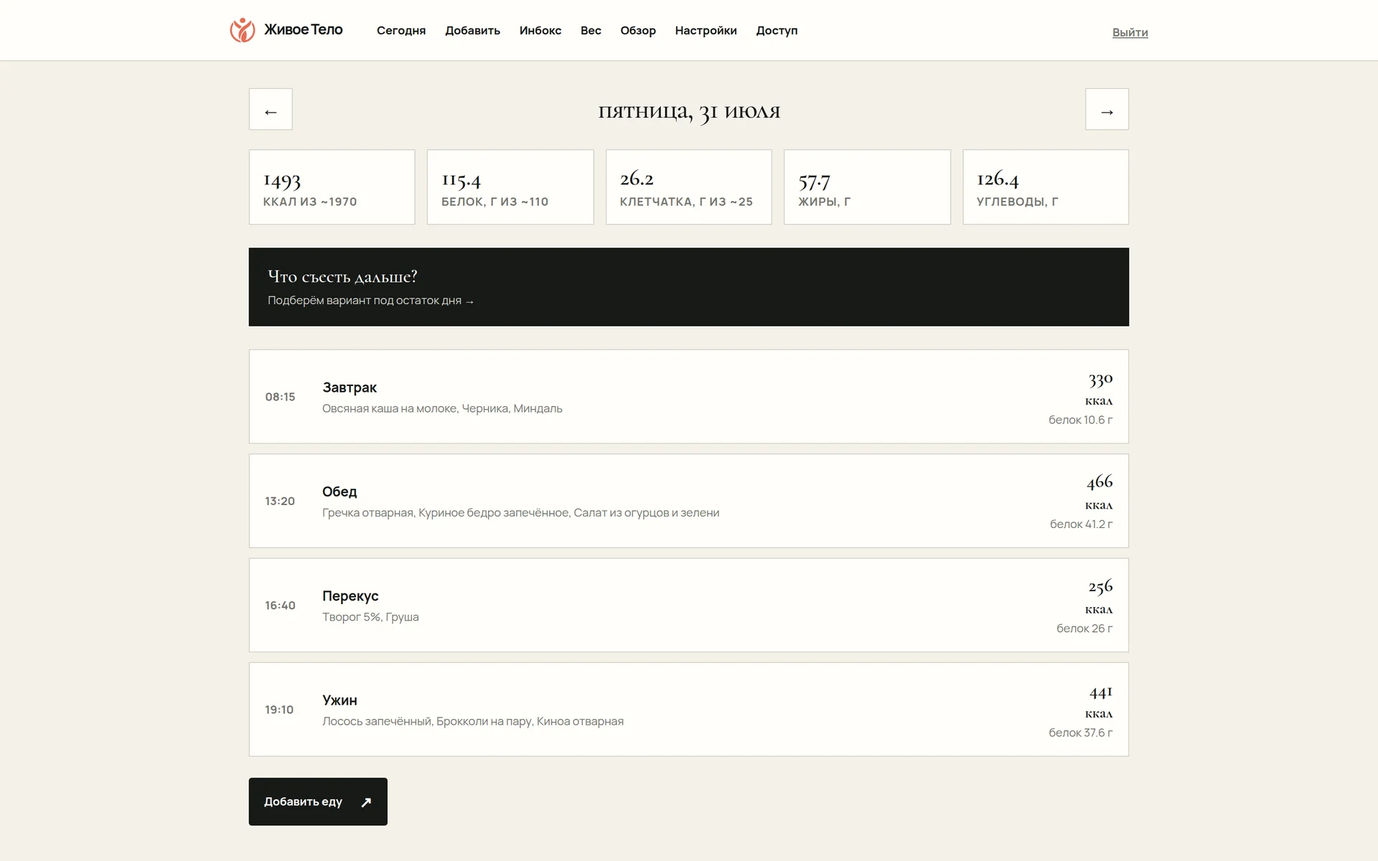
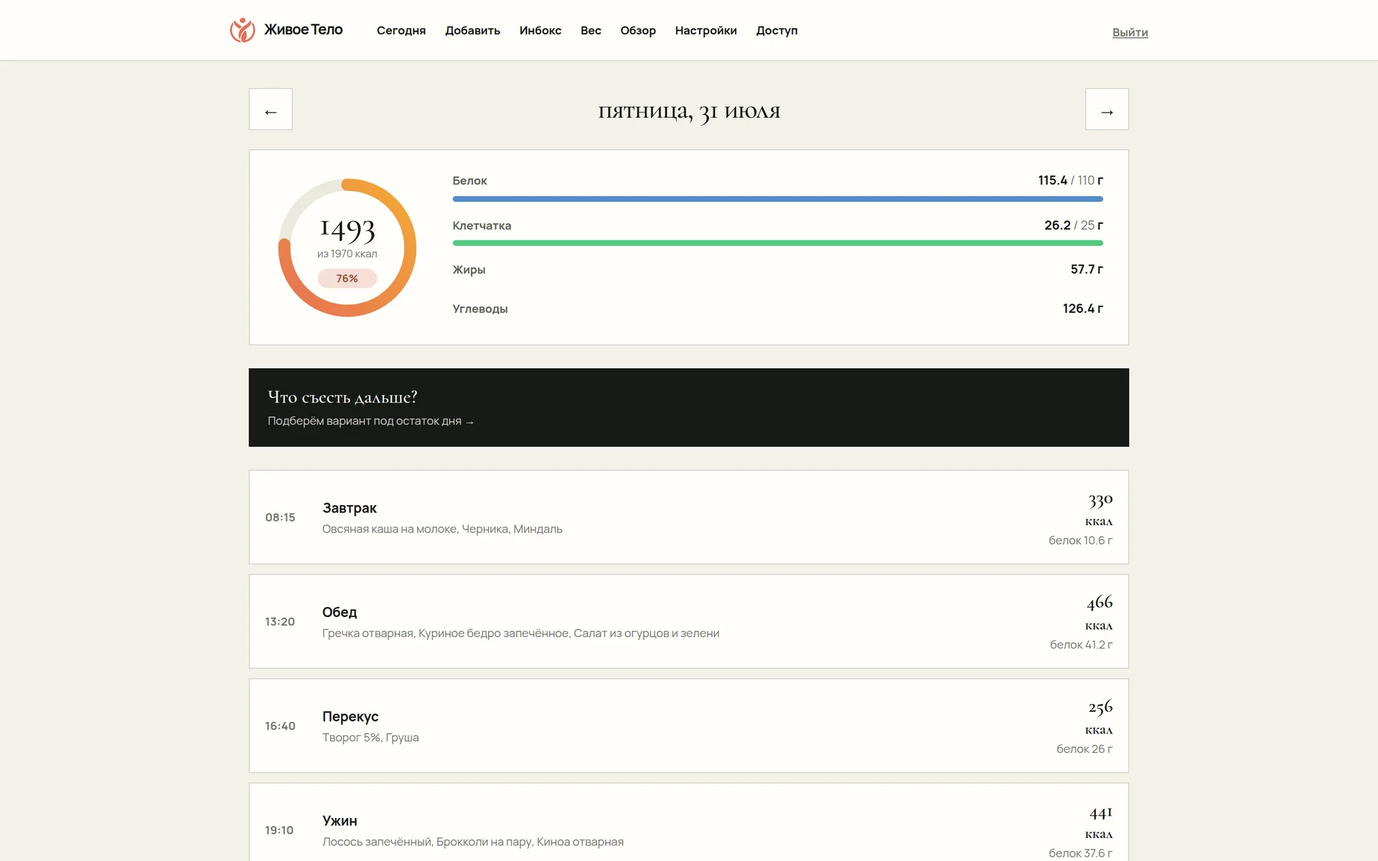
Кабинет: кольцо энергии и цветные полосы вместо пяти прямоугольников
В Mini App итоги дня выглядят кольцом и цветными полосами. В веб-кабинете те
же пять чисел стояли пятью одинаковыми прямоугольниками с рамкой — продукт в
браузере выглядел таблицей. Стало видно сразу, как только на главную вместо
нарисованного макета встал настоящий снимок.

app/app/day-visuals.tsx — кольцо и полосы. Компонент серверный: ни состояния,
ни обработчиков, в браузер не уезжает ничего.

Кольцо только для энергии: это единственное число, на которое смотрят первым,
и оно держит взгляд в одной точке. Остальные макросы полезно сравнивать между
собой — это работа для одинаковых полос.

Чего здесь нет намеренно: красного при превышении и слов «много», «мало»,
«отлично». Переполненная полоса просто останавливается на краю. У жиров и
углеводов цели не назначаем вовсе, поэтому дорожки под ними нет — пустая
полоса читалась бы как «ноль из чего-то», а на деле «не знаем, из чего».

Отдельно исправлено моё же столкновение имён: секция лендинга «Как проходит
обычный день» заняла класс .day, который уже был у страницы кабинета
(<main className="day">). Правило с отступом в 135px, написанное для лендинга,
раздвигало кабинет пустой полосой в полтысячи пикселей. Секция переименована
в .oneday.

Снимок кабинета на главной пересобран.

Claude-Session: https://claude.ai/code/session_01FfWCYDAfY1bLqGNy6tGekT

diff --git a/app/globals.css b/app/globals.css
@@ -1,9 +1,9 @@
 @import "tailwindcss";
-:root{--black:#171917;--paper:#f4f1ea;--white:#fffefa;--line:#d7d4ca;--muted:#75766f;--coral:#e56d55;--lime:#d9e49c;--serif:var(--font-display),Georgia,serif;--sans:var(--font-body),Arial,sans-serif}*{box-sizing:border-box}html{scroll-behavior:smooth}body{margin:0;background:var(--paper);color:var(--black);font-family:var(--sans)}button,a,input{font:inherit}button{cursor:pointer}a{color:inherit;text-decoration:none}.site-header{height:76px;padding:0 max(32px,calc((100% - 1280px)/2));display:flex;align-items:center;gap:42px;background:var(--white);border-bottom:1px solid var(--line);position:sticky;top:0;z-index:10}.logo{display:flex;align-items:center;gap:9px;white-space:nowrap;font-size:15px;font-weight:800;letter-spacing:-.04em}.logo span{display:block;width:27px;height:27px;flex:none}.logo span svg{display:block;width:100%;height:100%}.main-nav{display:flex;gap:27px}.main-nav button,.login{border:0;background:transparent;font-size:14px;font-weight:700}.main-nav small{font-size:12px;margin-left:6px}.header-actions{margin-left:auto;display:flex;align-items:center;gap:20px}.header-cta,.black-button,.coral-button,.white-button{border:0;border-radius:3px;padding:13px 16px;font-size:12px;font-weight:800}.header-cta,.black-button{background:var(--black);color:white}.header-cta b,.black-button b,.coral-button b,.white-button b{font-size:16px;margin-left:18px}.mega-menu{position:absolute;top:65px;left:max(32px,calc((100% - 1280px)/2));right:max(32px,calc((100% - 1280px)/2));display:grid;grid-template-columns:1fr 1fr 1.15fr;padding:27px;background:var(--white);border:1px solid var(--line);box-shadow:0 20px 35px #1719171f}.mega-menu p{color:var(--muted);font-size:11px;font-weight:800;letter-spacing:.12em}.mega-menu a{display:flex;justify-content:space-between;max-width:220px;padding:9px 0;font:500 20px var(--serif)}.mega-menu aside{padding:26px;background:var(--lime);font:500 28px/.95 var(--serif);letter-spacing:-.05em}.mega-menu em{font-style:italic;color:var(--coral)}.intro{background:var(--white) url(/hero.webp) no-repeat right center/cover;padding:105px max(32px,calc((100% - 1280px)/2)) 0}.intro-grid{display:grid;grid-template-columns:1.24fr .76fr;min-height:600px}.kicker{margin:0;text-transform:uppercase;font-size:11px;font-weight:800;letter-spacing:.13em}.kicker i{display:inline-block;width:6px;height:6px;margin-left:8px;border-radius:50%;background:var(--coral)}h1,h2,h3,p{margin-top:0}.intro h1{margin:28px 0 27px;font:500 clamp(62px,7vw,105px)/.82 var(--serif);letter-spacing:-.08em}.intro h1 em,h2 em{font-style:italic;color:var(--coral);font-weight:400}.intro-lead{max-width:370px;color:#61635c;font-size:14px;line-height:1.7}.intro-actions{display:flex;gap:26px;align-items:center;margin-top:32px}.intro-actions a{font-size:12px;font-weight:800}.intro-actions a span{font-size:16px;margin-left:7px}.intro-meta{display:flex;gap:13px;align-items:center;margin-top:99px;color:#777970;font-size:11px;font-weight:800;letter-spacing:.08em;text-transform:uppercase}.intro-meta i{width:58px;border-top:1px solid #aaa99f}.intro-statement{padding:40px 0 0 55px;color:var(--white);position:relative}.intro-statement:before{content:"";position:absolute;inset:0;background:linear-gradient(180deg,#171917f2 0%,#171917cc 45%,#17191700 72%);-webkit-mask-image:linear-gradient(90deg,#0000 0,#000 20%);mask-image:linear-gradient(90deg,#0000 0,#000 20%)}.intro-statement p,.intro-statement b,.intro-statement span{position:relative;z-index:1}.intro-statement p{margin:125px 0 8px;font:500 35px/.93 var(--serif);letter-spacing:-.06em}.intro-statement b{font:400 35px/.93 var(--serif);letter-spacing:-.06em;color:var(--lime)}.intro-statement span{position:absolute;bottom:28px;left:55px;color:#aaa;line-height:1.4;font-size:11px;text-transform:uppercase;letter-spacing:.12em;text-shadow:0 1px 8px #171917}.experience{padding:145px max(32px,calc((100% - 1280px)/2));background:var(--paper)}.section-top{display:grid;grid-template-columns:1fr 1fr;align-items:start;margin-bottom:66px}.section-top h2,.principles h2,.specialists h2,.footer-top h2{font:500 clamp(44px,5vw,72px)/.87 var(--serif);letter-spacing:-.075em;margin:0}.product-frame{margin:0;background:var(--white);border:1px solid var(--line);box-shadow:0 24px 70px #2b2d2012}.product-frame img,.pro-screen img{display:block;width:100%;height:auto}.pro-screen{align-self:center;margin:0;box-shadow:17px 17px 0 var(--coral)}.section-top div>p{max-width:295px;margin:22px 0 0;color:var(--muted);font-size:12px;line-height:1.65}.day{padding:135px max(32px,calc((100% - 1280px)/2));background:var(--paper)}.day-steps{display:grid;grid-template-columns:repeat(3,1fr);gap:36px}.day-steps figure{margin:0}.day-steps img{display:block;width:100%;height:auto}.day-steps h3{margin:24px 0 10px;font:500 27px var(--serif);letter-spacing:-.04em}.day-steps p{margin:0;color:#66675f;font-size:13px;line-height:1.65}.day-note{max-width:520px;margin:44px 0 0;color:var(--muted);font-size:12px;line-height:1.65}.range{display:grid;grid-template-columns:1.05fr .95fr;gap:80px;align-items:center;padding:135px max(32px,calc((100% - 1280px)/2));background:var(--white)}.range h2{margin:26px 0 30px;font:500 clamp(36px,4vw,54px)/.92 var(--serif);letter-spacing:-.06em}.range p{max-width:520px;margin:0 0 17px;color:#5c5e57;font-size:14px;line-height:1.75}.range .black-button{display:inline-block;margin-top:16px}.range img{display:block;width:100%;height:auto}.limits{padding:135px max(32px,calc((100% - 1280px)/2));background:var(--black);color:var(--white)}.limits h2{margin:26px 0 0;font:500 clamp(40px,4.6vw,64px)/.88 var(--serif);letter-spacing:-.07em}.limits-grid{display:grid;grid-template-columns:1fr 1fr;gap:80px;align-items:start;margin-top:56px}.limits-list{display:grid;gap:30px;align-content:start}.limits-list h3{margin:0 0 8px;font:500 24px var(--serif);letter-spacing:-.035em}.limits-list p{margin:0;max-width:430px;color:#bcbdb5;font-size:13px;line-height:1.65}.limits-more{font-size:12px;font-weight:800;text-decoration:underline;text-underline-offset:3px}.limits-more:hover{color:var(--coral)}.limits img{display:block;width:100%;height:auto}.tools{padding:135px max(32px,calc((100% - 1280px)/2));background:var(--paper)}.tools-banner{display:block;width:100%;height:auto;margin-bottom:52px}.tools-grid{display:grid;grid-template-columns:repeat(3,1fr);gap:1px;background:var(--line);border:1px solid var(--line)}.tools-grid a{display:flex;flex-direction:column;justify-content:space-between;gap:44px;min-height:168px;padding:24px;background:var(--white)}.tools-grid span{font-size:11px;font-weight:800;letter-spacing:.1em;text-transform:uppercase;color:var(--muted)}.tools-grid b{font:500 25px/1.05 var(--serif);letter-spacing:-.04em}.tools-grid a:hover b{color:var(--coral)}.tools-all{margin:28px 0 0;font-size:12px;font-weight:800}.tools-all a:hover{color:var(--coral)}.price{display:grid;grid-template-columns:.85fr 1.15fr;gap:80px;padding:135px max(32px,calc((100% - 1280px)/2));background:var(--white)}.price h2{margin:26px 0 0;font:500 clamp(40px,4.6vw,64px)/.88 var(--serif);letter-spacing:-.07em}.price p{max-width:560px;margin:0 0 18px;color:#5c5e57;font-size:14px;line-height:1.75}.price strong{font-weight:800;color:var(--black)}.faq{padding:135px max(32px,calc((100% - 1280px)/2));background:var(--paper)}.faq-list{border-top:1px solid var(--line)}.faq-list details{border-bottom:1px solid var(--line)}.faq-list summary{display:flex;justify-content:space-between;align-items:baseline;gap:24px;padding:25px 0;cursor:pointer;list-style:none;font:500 25px var(--serif);letter-spacing:-.035em}.faq-list summary::-webkit-details-marker{display:none}.faq-list summary::after{content:'+';flex:none;font:400 24px var(--sans);color:var(--coral)}.faq-list details[open] summary::after{content:'–'}.faq-list summary:hover{color:var(--coral)}.faq-list p{max-width:760px;margin:0 0 27px;color:#5c5e57;font-size:14px;line-height:1.7}.principles{display:grid;grid-template-columns:.85fr 1.15fr;padding:135px max(32px,calc((100% - 1280px)/2));background:#deded4}.principles-list{border-top:1px solid #aaa9a0}.principles-list article{display:grid;grid-template-columns:44px 1fr 20px;gap:15px;padding:27px 0;border-bottom:1px solid #aaa9a0}.principles-list span{font-size:11px;font-weight:800}.principles-list h3{margin:0;font:500 28px var(--serif);letter-spacing:-.045em}.principles-list p{max-width:385px;margin:9px 0 0;color:#66675f;font-size:12px;line-height:1.6}.principles-list b{font-size:20px}.specialists{display:grid;grid-template-columns:1fr 1fr;gap:80px;padding:135px max(32px,calc((100% - 1280px)/2));background:var(--black);color:var(--white)}.specialists>div>p:not(.kicker){max-width:365px;margin:25px 0 33px;color:#bcbdb5;font-size:12px;line-height:1.65}.white-button{background:var(--white);color:var(--black)}.journal{padding:130px max(32px,calc((100% - 1280px)/2));background:var(--white)}.articles{display:grid;grid-template-columns:repeat(3,1fr);border-top:1px solid var(--line)}.articles article{min-height:245px;padding:22px;border-right:1px solid var(--line)}.articles article:first-child{padding-left:0}.articles article:last-child{border:0}.articles span{font-size:11px;font-weight:800;letter-spacing:.1em}.articles h3{margin:58px 0 28px;font:500 29px/.95 var(--serif);letter-spacing:-.05em}.articles a{font-size:11px;font-weight:800}.articles a:hover{color:var(--coral)}footer{padding:76px max(32px,calc((100% - 1280px)/2)) 25px;background:var(--paper)}.footer-top{display:grid;grid-template-columns:1fr 1fr auto;align-items:start}.footer-top h2{font-size:57px}.coral-button{margin-top:18px;background:var(--coral);color:#201b18}.footer-bottom{display:flex;gap:26px;margin-top:104px;border-top:1px solid var(--line);padding-top:17px;color:#74766e;font-size:11px;font-weight:700}.footer-bottom a:first-of-type{margin-left:auto}.footer-links{display:grid;grid-template-columns:repeat(4,1fr);gap:26px;margin-top:80px;padding-top:28px;border-top:1px solid var(--line)}
+:root{--black:#171917;--paper:#f4f1ea;--white:#fffefa;--line:#d7d4ca;--muted:#75766f;--coral:#e56d55;--lime:#d9e49c;--serif:var(--font-display),Georgia,serif;--sans:var(--font-body),Arial,sans-serif}*{box-sizing:border-box}html{scroll-behavior:smooth}body{margin:0;background:var(--paper);color:var(--black);font-family:var(--sans)}button,a,input{font:inherit}button{cursor:pointer}a{color:inherit;text-decoration:none}.site-header{height:76px;padding:0 max(32px,calc((100% - 1280px)/2));display:flex;align-items:center;gap:42px;background:var(--white);border-bottom:1px solid var(--line);position:sticky;top:0;z-index:10}.logo{display:flex;align-items:center;gap:9px;white-space:nowrap;font-size:15px;font-weight:800;letter-spacing:-.04em}.logo span{display:block;width:27px;height:27px;flex:none}.logo span svg{display:block;width:100%;height:100%}.main-nav{display:flex;gap:27px}.main-nav button,.login{border:0;background:transparent;font-size:14px;font-weight:700}.main-nav small{font-size:12px;margin-left:6px}.header-actions{margin-left:auto;display:flex;align-items:center;gap:20px}.header-cta,.black-button,.coral-button,.white-button{border:0;border-radius:3px;padding:13px 16px;font-size:12px;font-weight:800}.header-cta,.black-button{background:var(--black);color:white}.header-cta b,.black-button b,.coral-button b,.white-button b{font-size:16px;margin-left:18px}.mega-menu{position:absolute;top:65px;left:max(32px,calc((100% - 1280px)/2));right:max(32px,calc((100% - 1280px)/2));display:grid;grid-template-columns:1fr 1fr 1.15fr;padding:27px;background:var(--white);border:1px solid var(--line);box-shadow:0 20px 35px #1719171f}.mega-menu p{color:var(--muted);font-size:11px;font-weight:800;letter-spacing:.12em}.mega-menu a{display:flex;justify-content:space-between;max-width:220px;padding:9px 0;font:500 20px var(--serif)}.mega-menu aside{padding:26px;background:var(--lime);font:500 28px/.95 var(--serif);letter-spacing:-.05em}.mega-menu em{font-style:italic;color:var(--coral)}.intro{background:var(--white) url(/hero.webp) no-repeat right center/cover;padding:105px max(32px,calc((100% - 1280px)/2)) 0}.intro-grid{display:grid;grid-template-columns:1.24fr .76fr;min-height:600px}.kicker{margin:0;text-transform:uppercase;font-size:11px;font-weight:800;letter-spacing:.13em}.kicker i{display:inline-block;width:6px;height:6px;margin-left:8px;border-radius:50%;background:var(--coral)}h1,h2,h3,p{margin-top:0}.intro h1{margin:28px 0 27px;font:500 clamp(62px,7vw,105px)/.82 var(--serif);letter-spacing:-.08em}.intro h1 em,h2 em{font-style:italic;color:var(--coral);font-weight:400}.intro-lead{max-width:370px;color:#61635c;font-size:14px;line-height:1.7}.intro-actions{display:flex;gap:26px;align-items:center;margin-top:32px}.intro-actions a{font-size:12px;font-weight:800}.intro-actions a span{font-size:16px;margin-left:7px}.intro-meta{display:flex;gap:13px;align-items:center;margin-top:99px;color:#777970;font-size:11px;font-weight:800;letter-spacing:.08em;text-transform:uppercase}.intro-meta i{width:58px;border-top:1px solid #aaa99f}.intro-statement{padding:40px 0 0 55px;color:var(--white);position:relative}.intro-statement:before{content:"";position:absolute;inset:0;background:linear-gradient(180deg,#171917f2 0%,#171917cc 45%,#17191700 72%);-webkit-mask-image:linear-gradient(90deg,#0000 0,#000 20%);mask-image:linear-gradient(90deg,#0000 0,#000 20%)}.intro-statement p,.intro-statement b,.intro-statement span{position:relative;z-index:1}.intro-statement p{margin:125px 0 8px;font:500 35px/.93 var(--serif);letter-spacing:-.06em}.intro-statement b{font:400 35px/.93 var(--serif);letter-spacing:-.06em;color:var(--lime)}.intro-statement span{position:absolute;bottom:28px;left:55px;color:#aaa;line-height:1.4;font-size:11px;text-transform:uppercase;letter-spacing:.12em;text-shadow:0 1px 8px #171917}.experience{padding:145px max(32px,calc((100% - 1280px)/2));background:var(--paper)}.section-top{display:grid;grid-template-columns:1fr 1fr;align-items:start;margin-bottom:66px}.section-top h2,.principles h2,.specialists h2,.footer-top h2{font:500 clamp(44px,5vw,72px)/.87 var(--serif);letter-spacing:-.075em;margin:0}.product-frame{margin:0;background:var(--white);border:1px solid var(--line);box-shadow:0 24px 70px #2b2d2012}.product-frame img,.pro-screen img{display:block;width:100%;height:auto}.pro-screen{align-self:center;margin:0;box-shadow:17px 17px 0 var(--coral)}.section-top div>p{max-width:295px;margin:22px 0 0;color:var(--muted);font-size:12px;line-height:1.65}.oneday{padding:135px max(32px,calc((100% - 1280px)/2));background:var(--paper)}.oneday-steps{display:grid;grid-template-columns:repeat(3,1fr);gap:36px}.oneday-steps figure{margin:0}.oneday-steps img{display:block;width:100%;height:auto}.oneday-steps h3{margin:24px 0 10px;font:500 27px var(--serif);letter-spacing:-.04em}.oneday-steps p{margin:0;color:#66675f;font-size:13px;line-height:1.65}.oneday-note{max-width:520px;margin:44px 0 0;color:var(--muted);font-size:12px;line-height:1.65}.range{display:grid;grid-template-columns:1.05fr .95fr;gap:80px;align-items:center;padding:135px max(32px,calc((100% - 1280px)/2));background:var(--white)}.range h2{margin:26px 0 30px;font:500 clamp(36px,4vw,54px)/.92 var(--serif);letter-spacing:-.06em}.range p{max-width:520px;margin:0 0 17px;color:#5c5e57;font-size:14px;line-height:1.75}.range .black-button{display:inline-block;margin-top:16px}.range img{display:block;width:100%;height:auto}.limits{padding:135px max(32px,calc((100% - 1280px)/2));background:var(--black);color:var(--white)}.limits h2{margin:26px 0 0;font:500 clamp(40px,4.6vw,64px)/.88 var(--serif);letter-spacing:-.07em}.limits-grid{display:grid;grid-template-columns:1fr 1fr;gap:80px;align-items:start;margin-top:56px}.limits-list{display:grid;gap:30px;align-content:start}.limits-list h3{margin:0 0 8px;font:500 24px var(--serif);letter-spacing:-.035em}.limits-list p{margin:0;max-width:430px;color:#bcbdb5;font-size:13px;line-height:1.65}.limits-more{font-size:12px;font-weight:800;text-decoration:underline;text-underline-offset:3px}.limits-more:hover{color:var(--coral)}.limits img{display:block;width:100%;height:auto}.tools{padding:135px max(32px,calc((100% - 1280px)/2));background:var(--paper)}.tools-banner{display:block;width:100%;height:auto;margin-bottom:52px}.tools-grid{display:grid;grid-template-columns:repeat(3,1fr);gap:1px;background:var(--line);border:1px solid var(--line)}.tools-grid a{display:flex;flex-direction:column;justify-content:space-between;gap:44px;min-height:168px;padding:24px;background:var(--white)}.tools-grid span{font-size:11px;font-weight:800;letter-spacing:.1em;text-transform:uppercase;color:var(--muted)}.tools-grid b{font:500 25px/1.05 var(--serif);letter-spacing:-.04em}.tools-grid a:hover b{color:var(--coral)}.tools-all{margin:28px 0 0;font-size:12px;font-weight:800}.tools-all a:hover{color:var(--coral)}.price{display:grid;grid-template-columns:.85fr 1.15fr;gap:80px;padding:135px max(32px,calc((100% - 1280px)/2));background:var(--white)}.price h2{margin:26px 0 0;font:500 clamp(40px,4.6vw,64px)/.88 var(--serif);letter-spacing:-.07em}.price p{max-width:560px;margin:0 0 18px;color:#5c5e57;font-size:14px;line-height:1.75}.price strong{font-weight:800;color:var(--black)}.faq{padding:135px max(32px,calc((100% - 1280px)/2));background:var(--paper)}.faq-list{border-top:1px solid var(--line)}.faq-list details{border-bottom:1px solid var(--line)}.faq-list summary{display:flex;justify-content:space-between;align-items:baseline;gap:24px;padding:25px 0;cursor:pointer;list-style:none;font:500 25px var(--serif);letter-spacing:-.035em}.faq-list summary::-webkit-details-marker{display:none}.faq-list summary::after{content:'+';flex:none;font:400 24px var(--sans);color:var(--coral)}.faq-list details[open] summary::after{content:'–'}.faq-list summary:hover{color:var(--coral)}.faq-list p{max-width:760px;margin:0 0 27px;color:#5c5e57;font-size:14px;line-height:1.7}.principles{display:grid;grid-template-columns:.85fr 1.15fr;padding:135px max(32px,calc((100% - 1280px)/2));background:#deded4}.principles-list{border-top:1px solid #aaa9a0}.principles-list article{display:grid;grid-template-columns:44px 1fr 20px;gap:15px;padding:27px 0;border-bottom:1px solid #aaa9a0}.principles-list span{font-size:11px;font-weight:800}.principles-list h3{margin:0;font:500 28px var(--serif);letter-spacing:-.045em}.principles-list p{max-width:385px;margin:9px 0 0;color:#66675f;font-size:12px;line-height:1.6}.principles-list b{font-size:20px}.specialists{display:grid;grid-template-columns:1fr 1fr;gap:80px;padding:135px max(32px,calc((100% - 1280px)/2));background:var(--black);color:var(--white)}.specialists>div>p:not(.kicker){max-width:365px;margin:25px 0 33px;color:#bcbdb5;font-size:12px;line-height:1.65}.white-button{background:var(--white);color:var(--black)}.journal{padding:130px max(32px,calc((100% - 1280px)/2));background:var(--white)}.articles{display:grid;grid-template-columns:repeat(3,1fr);border-top:1px solid var(--line)}.articles article{min-height:245px;padding:22px;border-right:1px solid var(--line)}.articles article:first-child{padding-left:0}.articles article:last-child{border:0}.articles span{font-size:11px;font-weight:800;letter-spacing:.1em}.articles h3{margin:58px 0 28px;font:500 29px/.95 var(--serif);letter-spacing:-.05em}.articles a{font-size:11px;font-weight:800}.articles a:hover{color:var(--coral)}footer{padding:76px max(32px,calc((100% - 1280px)/2)) 25px;background:var(--paper)}.footer-top{display:grid;grid-template-columns:1fr 1fr auto;align-items:start}.footer-top h2{font-size:57px}.coral-button{margin-top:18px;background:var(--coral);color:#201b18}.footer-bottom{display:flex;gap:26px;margin-top:104px;border-top:1px solid var(--line);padding-top:17px;color:#74766e;font-size:11px;font-weight:700}.footer-bottom a:first-of-type{margin-left:auto}.footer-links{display:grid;grid-template-columns:repeat(4,1fr);gap:26px;margin-top:80px;padding-top:28px;border-top:1px solid var(--line)}
 /* Без верхнего блока (везде, кроме главной) подвал начинается со ссылок —
    отступ под несуществующий заголовок оставил бы пустую полосу. */
 footer>.footer-links:first-child{margin-top:0;padding-top:0;border-top:0}.footer-links div{display:flex;flex-direction:column;gap:12px}.footer-links p{margin:0;color:var(--muted);font-size:12px;font-weight:800;letter-spacing:.06em;text-transform:uppercase}.footer-links a{font-size:14px}.footer-links a:hover{color:var(--coral)}
-@media(max-width:850px){.site-header{padding:0 20px;height:64px;gap:0}.main-nav{display:none}.login{display:none}.header-actions{gap:0}.intro,.experience,.principles,.specialists,.journal,footer{padding-left:20px;padding-right:20px}.intro{padding-top:65px}.intro-grid,.section-top,.principles,.specialists{grid-template-columns:1fr}.intro{background-image:none}.intro-statement{min-height:250px;padding:40px 28px 32px;margin:50px -20px 0;background:var(--black)}.intro-statement:before{background:none;-webkit-mask-image:none;mask-image:none;inset:auto auto auto 0;border-style:solid;border-width:60px 60px 0 0;border-color:var(--white) transparent transparent}.intro-statement span{position:static;display:block;margin-top:20px;text-shadow:none}.intro-statement p{margin-top:95px}.intro-statement span{left:28px}.intro-meta{margin-top:52px}.section-top{gap:22px;margin-bottom:45px}.product-frame{margin:0 -20px}.day,.range,.limits,.tools,.price,.faq{padding-left:20px;padding-right:20px}.day,.range,.limits,.tools,.price,.faq{padding-top:80px;padding-bottom:80px}.day-steps{grid-template-columns:1fr;gap:38px}.range,.limits-grid,.price{grid-template-columns:1fr;gap:36px}.tools-grid{grid-template-columns:1fr}.tools-grid a{min-height:0;gap:18px}.faq-list summary{font-size:20px;gap:16px}.principles{gap:40px}.specialists{gap:55px}.articles{grid-template-columns:1fr}.articles article,.articles article:first-child{min-height:auto;padding:25px 0;border-right:0;border-bottom:1px solid var(--line)}.articles h3{margin:28px 0}.footer-top{grid-template-columns:1fr;gap:35px}.footer-bottom{margin-top:65px;flex-wrap:wrap}.footer-bottom a:first-of-type{margin-left:0}.footer-links{grid-template-columns:1fr 1fr;gap:30px 20px;margin-top:50px;padding-top:20px}.mega-menu{left:20px;right:20px;grid-template-columns:1fr;padding:20px}.mega-menu aside{display:none}}
+@media(max-width:850px){.site-header{padding:0 20px;height:64px;gap:0}.main-nav{display:none}.login{display:none}.header-actions{gap:0}.intro,.experience,.principles,.specialists,.journal,footer{padding-left:20px;padding-right:20px}.intro{padding-top:65px}.intro-grid,.section-top,.principles,.specialists{grid-template-columns:1fr}.intro{background-image:none}.intro-statement{min-height:250px;padding:40px 28px 32px;margin:50px -20px 0;background:var(--black)}.intro-statement:before{background:none;-webkit-mask-image:none;mask-image:none;inset:auto auto auto 0;border-style:solid;border-width:60px 60px 0 0;border-color:var(--white) transparent transparent}.intro-statement span{position:static;display:block;margin-top:20px;text-shadow:none}.intro-statement p{margin-top:95px}.intro-statement span{left:28px}.intro-meta{margin-top:52px}.section-top{gap:22px;margin-bottom:45px}.product-frame{margin:0 -20px}.oneday,.range,.limits,.tools,.price,.faq{padding-left:20px;padding-right:20px}.oneday,.range,.limits,.tools,.price,.faq{padding-top:80px;padding-bottom:80px}.oneday-steps{grid-template-columns:1fr;gap:38px}.range,.limits-grid,.price{grid-template-columns:1fr;gap:36px}.tools-grid{grid-template-columns:1fr}.tools-grid a{min-height:0;gap:18px}.faq-list summary{font-size:20px;gap:16px}.principles{gap:40px}.specialists{gap:55px}.articles{grid-template-columns:1fr}.articles article,.articles article:first-child{min-height:auto;padding:25px 0;border-right:0;border-bottom:1px solid var(--line)}.articles h3{margin:28px 0}.footer-top{grid-template-columns:1fr;gap:35px}.footer-bottom{margin-top:65px;flex-wrap:wrap}.footer-bottom a:first-of-type{margin-left:0}.footer-links{grid-template-columns:1fr 1fr;gap:30px 20px;margin-top:50px;padding-top:20px}.mega-menu{left:20px;right:20px;grid-template-columns:1fr;padding:20px}.mega-menu aside{display:none}}
 
 .form-error{display:block;margin:-2px 0 10px;color:#b95353;font-size:12px;line-height:1.5}
 
@@ -41,7 +41,7 @@ footer>.footer-links:first-child{margin-top:0;padding-top:0;border-top:0}.footer
 .day-totals span,.draft-summary span{font-size:12px;font-weight:700;color:var(--muted);letter-spacing:.06em;text-transform:uppercase}
 .day-empty{background:var(--white);border:1px solid var(--line);padding:32px;display:flex;flex-direction:column;gap:18px;align-items:flex-start}
 .day-empty p{margin:0;color:var(--muted);line-height:1.6;max-width:420px}
-.day-meals{display:flex;flex-direction:column;gap:10px}
+.day-summary{display:grid;grid-template-columns:auto 1fr;gap:34px;align-items:center;margin-bottom:24px;padding:22px 26px;background:var(--white);border:1px solid var(--line)}.day-ring{position:relative;width:152px;height:152px}.day-ring svg{display:block;width:100%;height:100%;transform:rotate(-90deg)}.day-ring-track{fill:none;stroke:#ece9df;stroke-width:10}.day-ring-value{fill:none;stroke:url(#day-ring-gradient);stroke-width:10;stroke-linecap:round}.day-ring-center{position:absolute;inset:0;display:grid;place-content:center;text-align:center}.day-ring-center strong{display:block;font:500 36px/1 var(--serif)}.day-ring-center span{display:block;margin-top:5px;font-size:11px;color:var(--muted)}.day-ring-center em{display:inline-block;margin-top:7px;padding:2px 9px;border-radius:10px;background:#f7ded7;color:#9a4f3c;font-style:normal;font-size:11px;font-weight:800}.day-bars{display:grid;gap:15px;min-width:0}.day-bar-head{display:flex;justify-content:space-between;align-items:baseline;gap:12px;margin-bottom:6px}.day-bar-head span{font-size:12px;font-weight:700;color:#5c5e57}.day-bar-head b{font-size:13px;font-weight:800;white-space:nowrap}.day-bar-head i{font-style:normal;font-weight:400;color:var(--muted)}.day-bar-track{height:6px;border-radius:3px;background:hsl(var(--macro-hue) 42% 92%);overflow:hidden}.day-bar-fill{height:100%;border-radius:3px;background:hsl(var(--macro-hue) 52% 56%)}@media(max-width:720px){.day-summary{grid-template-columns:1fr;justify-items:center;gap:22px;padding:20px}.day-bars{width:100%}}.day-meals{display:flex;flex-direction:column;gap:10px}
 .day-meal{display:flex;align-items:center;gap:16px;background:var(--white);border:1px solid var(--line);padding:16px}
 .day-meal time{font-size:12px;font-weight:700;color:var(--muted);width:44px}
 .day-meal>div{flex:1;display:flex;flex-direction:column;gap:3px;min-width:0}

diff --git a/app/app/day-visuals.tsx b/app/app/day-visuals.tsx
@@ -1,0 +1,86 @@
+/**
+ * Итоги дня в кабинете: кольцо энергии и полосы макросов.
+ *
+ * ## Зачем понадобилось
+ *
+ * В Mini App итоги дня выглядят кольцом и цветными полосами, а в веб-кабинете
+ * ровно те же числа стояли пятью одинаковыми прямоугольниками с рамкой. Это
+ * заметили сразу, как только на главную вместо нарисованного макета встал
+ * настоящий снимок: продукт в вебе выглядел таблицей.
+ *
+ * Компонент серверный — ни состояния, ни обработчиков здесь нет, только
+ * арифметика и разметка. В браузер не уезжает ничего.
+ *
+ * ## Почему кольцо, а не полоса, для энергии
+ *
+ * Энергия — единственное число, на которое человек смотрит первым. Кольцо
+ * держит взгляд в одной точке и читается с расстояния; полоса в ряду с
+ * четырьмя такими же теряется. Остальные макросы, наоборот, полезно
+ * сравнивать между собой — а это как раз работа для одинаковых полос.
+ *
+ * ## Чего здесь нет
+ *
+ * Красного цвета при превышении и слов «много», «мало», «отлично». Сервис
+ * показывает, что было; выводы делает человек. Поэтому переполненная полоса
+ * просто останавливается на краю, а не краснеет.
+ */
+
+/** Оттенки берём из тех же тонов, что в Mini App, — набор должен совпадать. */
+const MACRO_HUE: Record<string, number> = {
+  protein: 212,
+  fat: 38,
+  carbs: 276,
+  fiber: 142,
+};
+
+export function EnergyRing({ value, target }: { value: number; target: number | null }) {
+  const radius = 52;
+  const circumference = 2 * Math.PI * radius;
+  // Без цели кольцо остаётся пустым: рисовать долю от неизвестного нечестно.
+  const share = target && target > 0 ? Math.min(1, value / target) : 0;
+
+  return <div className="day-ring">
+    <svg viewBox="0 0 120 120" role="img" aria-label={target ? `Съедено ${value} из ${target} ккал` : `Съедено ${value} ккал`}>
+      <defs>
+        {/* Градиент вдоль дуги в userSpace: от bounding box самой дуги он на
+            малом заполнении сжался бы в одно пятно. */}
+        <linearGradient id="day-ring-gradient" gradientUnits="userSpaceOnUse" x1="0" y1="0" x2="120" y2="120">
+          <stop offset="0%" stopColor="var(--coral)" />
+          <stop offset="100%" stopColor="hsl(38 90% 58%)" />
+        </linearGradient>
+      </defs>
+      <circle className="day-ring-track" cx="60" cy="60" r={radius} />
+      <circle
+        className="day-ring-value"
+        cx="60" cy="60" r={radius}
+        strokeDasharray={circumference}
+        strokeDashoffset={circumference * (1 - share)}
+      />
+    </svg>
+    <div className="day-ring-center">
+      <strong>{value}</strong>
+      <span>{target ? `из ${target} ккал` : "ккал"}</span>
+      {target ? <em>{Math.round(share * 100)}%</em> : null}
+    </div>
+  </div>;
+}
+
+export function MacroBar({ label, value, target, unit, macro }: {
+  label: string;
+  value: number;
+  target: number | null;
+  unit: string;
+  /** Ключ из MACRO_HUE — он же задаёт цвет полосы. */
+  macro: keyof typeof MACRO_HUE;
+}) {
+  const pct = target && target > 0 ? Math.min(100, Math.round((value / target) * 100)) : 0;
+  return <div className="day-bar" style={{ "--macro-hue": MACRO_HUE[macro] } as React.CSSProperties}>
+    <div className="day-bar-head">
+      <span>{label}</span>
+      <b>{value}{target ? <i> / {target}</i> : null} {unit}</b>
+    </div>
+    {/* Без цели дорожку не рисуем вовсе: пустая полоса выглядит как ноль
+        из чего-то, а на деле «не знаем, из чего». */}
+    {target ? <div className="day-bar-track"><div className="day-bar-fill" style={{ width: `${pct}%` }} /></div> : null}
+  </div>;
+}

diff --git a/app/app/page.tsx b/app/app/page.tsx
@@ -10,6 +10,7 @@ import type { PaceKey } from "@/lib/pace";
 import { computeTargets, type Activity, type Goal, type SexForFormula, type Targets } from "@/lib/targets";
 import { getLatestWeightKg } from "@/lib/weight";
 import { AppInvite } from "../app-invite";
+import { EnergyRing, MacroBar } from "./day-visuals";
 import { GoalReporter } from "./goal-reporter";
 
 export default async function TodayPage({ searchParams }: { searchParams: Promise<{ date?: string; saved?: string }> }) {
@@ -65,15 +66,20 @@ export default async function TodayPage({ searchParams }: { searchParams: Promis
       <Link className="black-button" href="/app/onboarding">Настроить план <b>↗</b></Link>
     </section>}
 
-    <section className="day-totals">
-      {user.showCalories && <div>
-        <strong>{dayTotals.kcal}</strong>
-        <span>ккал{targets ? ` из ~${targets.kcalTarget}` : ""}</span>
-      </div>}
-      <div><strong>{dayTotals.protein}</strong><span>белок, г{targets ? ` из ~${targets.proteinTarget}` : ""}</span></div>
-      <div><strong>{dayTotals.fiber}</strong><span>клетчатка, г{targets ? ` из ~${targets.fiberTarget}` : ""}</span></div>
-      <div><strong>{dayTotals.fat}</strong><span>жиры, г</span></div>
-      <div><strong>{dayTotals.carbs}</strong><span>углеводы, г</span></div>
+    {/* Те же пять чисел, что и раньше, — но кольцом и полосами, а не пятью
+        одинаковыми прямоугольниками с рамкой. В Mini App итоги дня так
+        выглядели с самого начала; веб-кабинет отставал, и это стало видно,
+        как только на главную встал настоящий снимок вместо макета. */}
+    <section className="day-summary">
+      {user.showCalories && <EnergyRing value={dayTotals.kcal} target={targets?.kcalTarget ?? null} />}
+      <div className="day-bars">
+        <MacroBar label="Белок" value={dayTotals.protein} target={targets?.proteinTarget ?? null} unit="г" macro="protein" />
+        <MacroBar label="Клетчатка" value={dayTotals.fiber} target={targets?.fiberTarget ?? null} unit="г" macro="fiber" />
+        {/* Жирам и углеводам цели не назначаем — полоса без дорожки честно
+            показывает съеденное, не выдумывая «из скольки». */}
+        <MacroBar label="Жиры" value={dayTotals.fat} target={null} unit="г" macro="fat" />
+        <MacroBar label="Углеводы" value={dayTotals.carbs} target={null} unit="г" macro="carbs" />
+      </div>
     </section>
 
     {targets && <Link className="next-card" href="/app/next">

diff --git a/app/page.tsx b/app/page.tsx
@@ -130,8 +130,8 @@ export default function Home() {
         Раньше страница отвечала на это словами «фото, голос или текст» и ни
         одним шагом. Кадры — из docs/illustrations, пересобрать:
         node scripts/site-art.mjs */}
-    <section className="day"><div className="section-top"><p className="kicker">За один день <i /></p><div><h2>Как проходит<br /><em>обычный день.</em></h2><p>Три коротких движения. Ни одного экрана, который нужно изучать.</p></div></div>
-      <div className="day-steps">
+    <section className="oneday"><div className="section-top"><p className="kicker">За один день <i /></p><div><h2>Как проходит<br /><em>обычный день.</em></h2><p>Три коротких движения. Ни одного экрана, который нужно изучать.</p></div></div>
+      <div className="oneday-steps">
         {DAY.map((step) => (
           <figure key={step.src}>
             <Image src={step.src} alt={step.alt} width={640} height={800} sizes="(max-width: 850px) 100vw, 400px" />
@@ -140,7 +140,7 @@ export default function Home() {
           </figure>
         ))}
       </div>
-      <p className="day-note">
+      <p className="oneday-note">
         Записывать можно и текстом, и голосом, и руками из справочника.
         Фотография — самый быстрый способ, но не единственный.
       </p>
